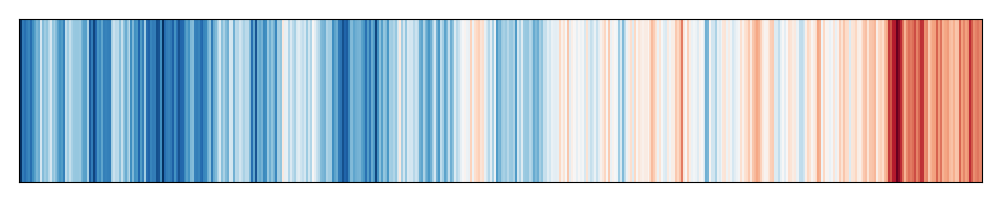
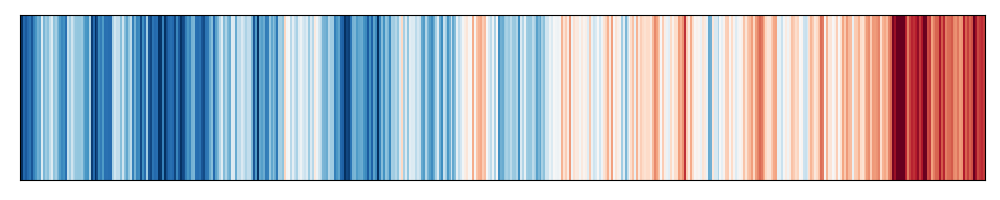
Use percentiles to set colors (#40)
* use percentiles to set colors

* fix test data for climate stripes

diff --git a/tools/climate-stripes/climate_stripes.py b/tools/climate-stripes/climate_stripes.py
@@ -82,8 +82,8 @@ class Stripes ():
         fig = plt.figure(figsize=(10, 2))
         ax = plt.subplot(111)
         plt.pcolor(data, cmap=self.cmap,
-                   vmin=self.data[self.valname].min(),
-                   vmax=self.data[self.valname].max())
+                   vmin=self.data[self.valname].quantile(q=0.01),
+                   vmax=self.data[self.valname].quantile(q=0.99))
         if self.title:
             plt.title(self.title)
         if self.xname:
